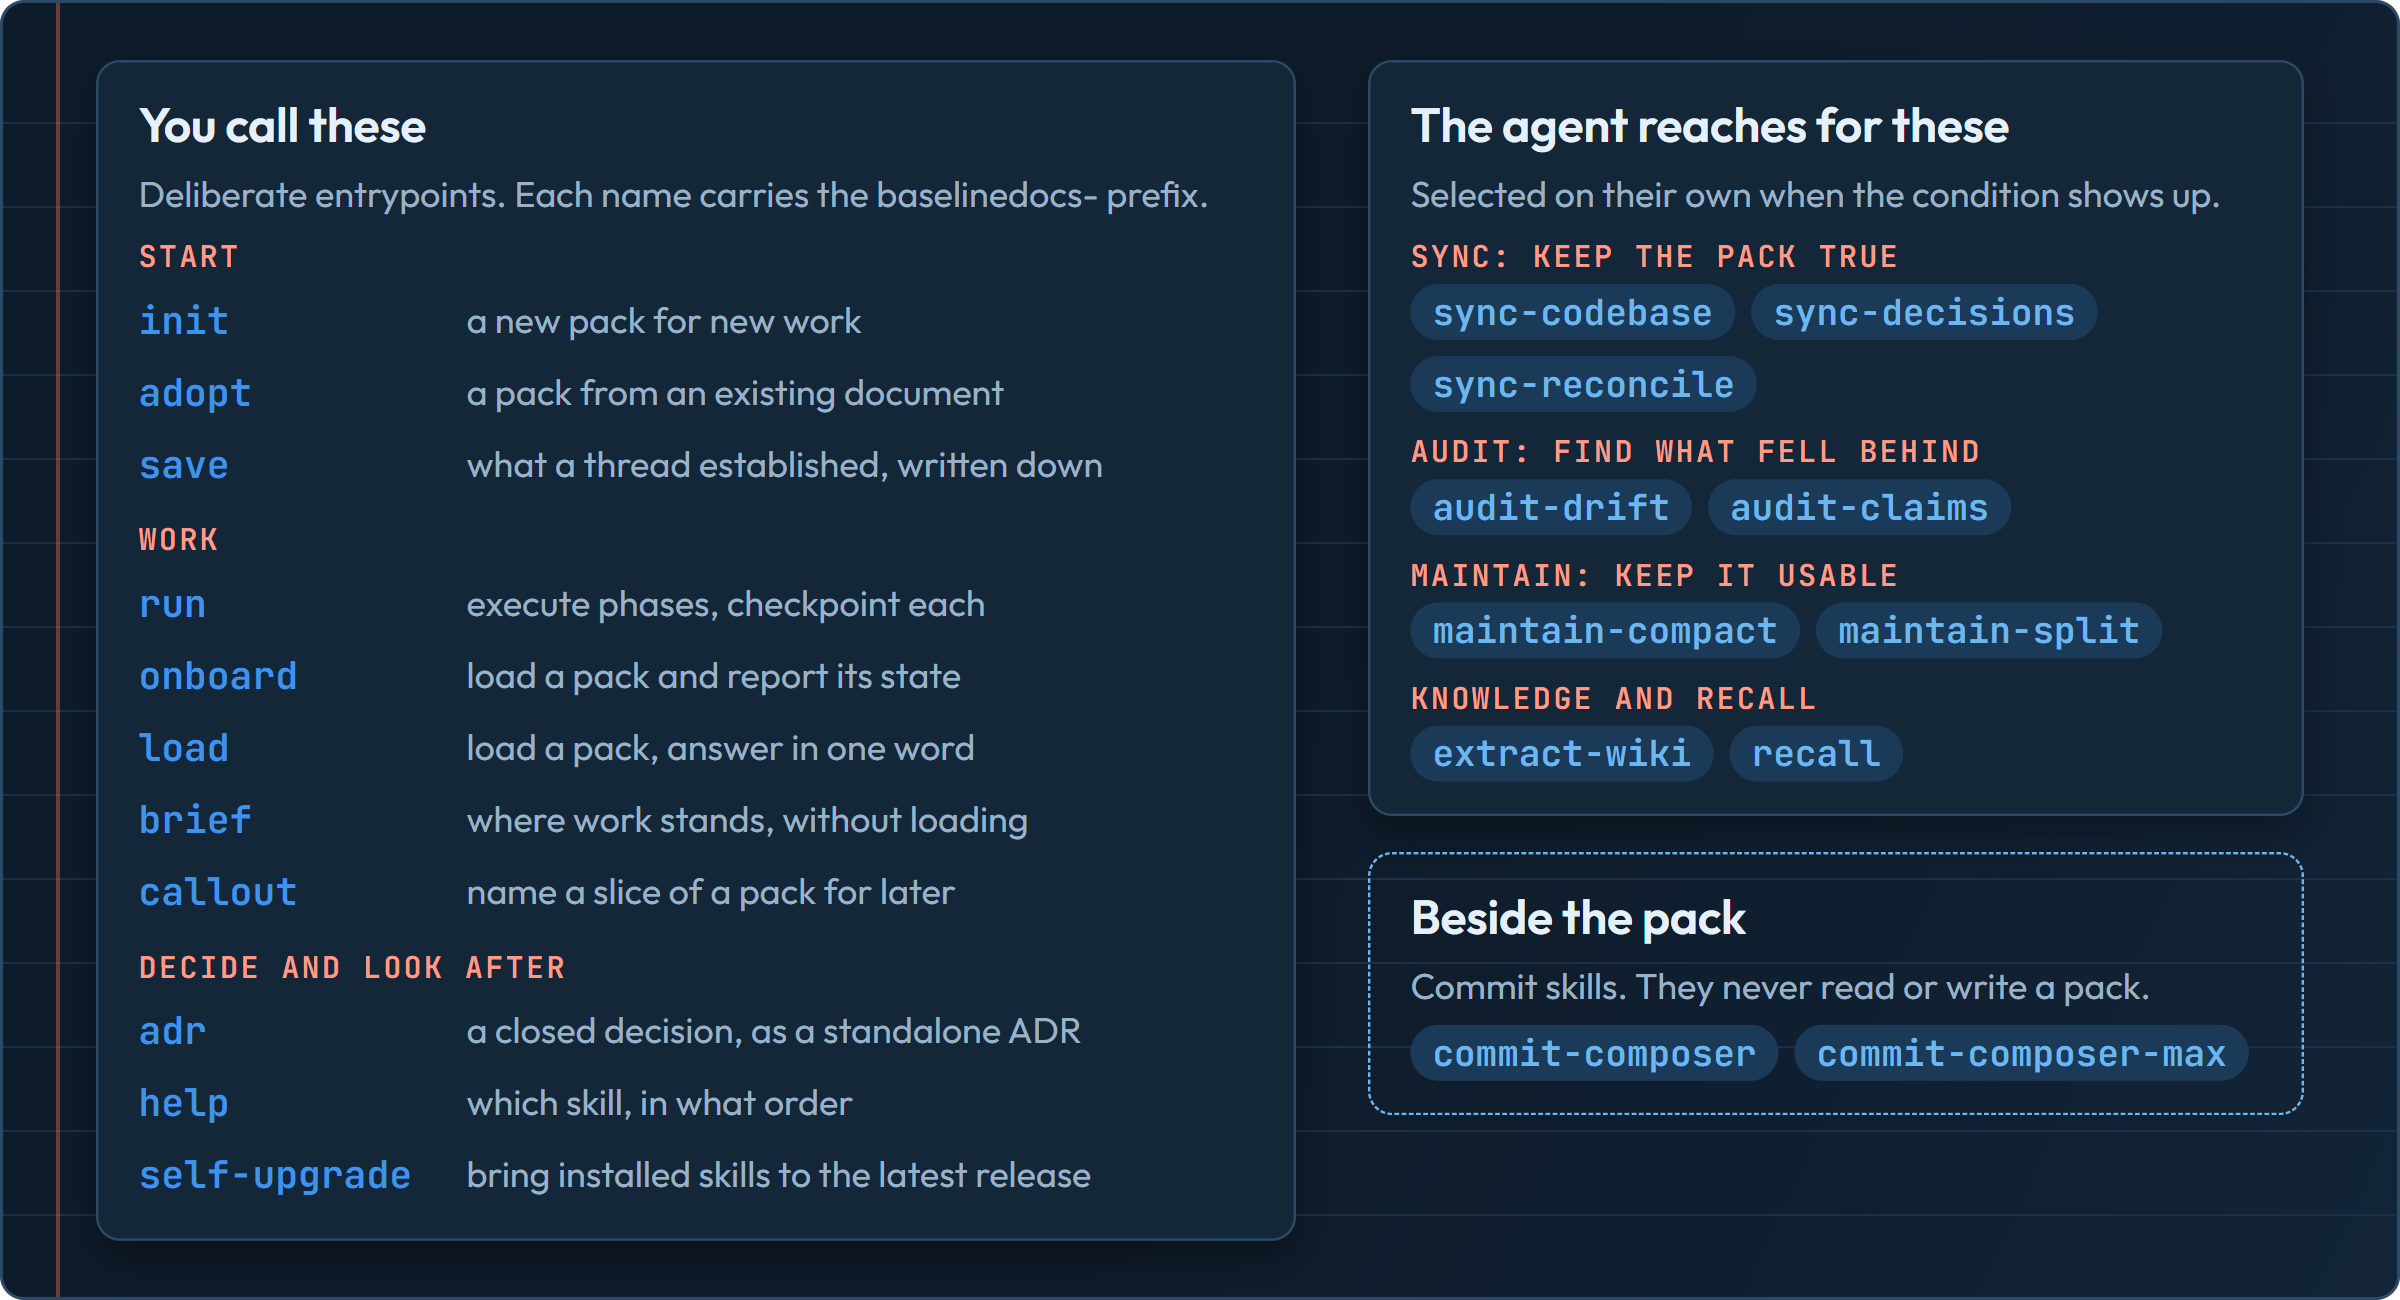
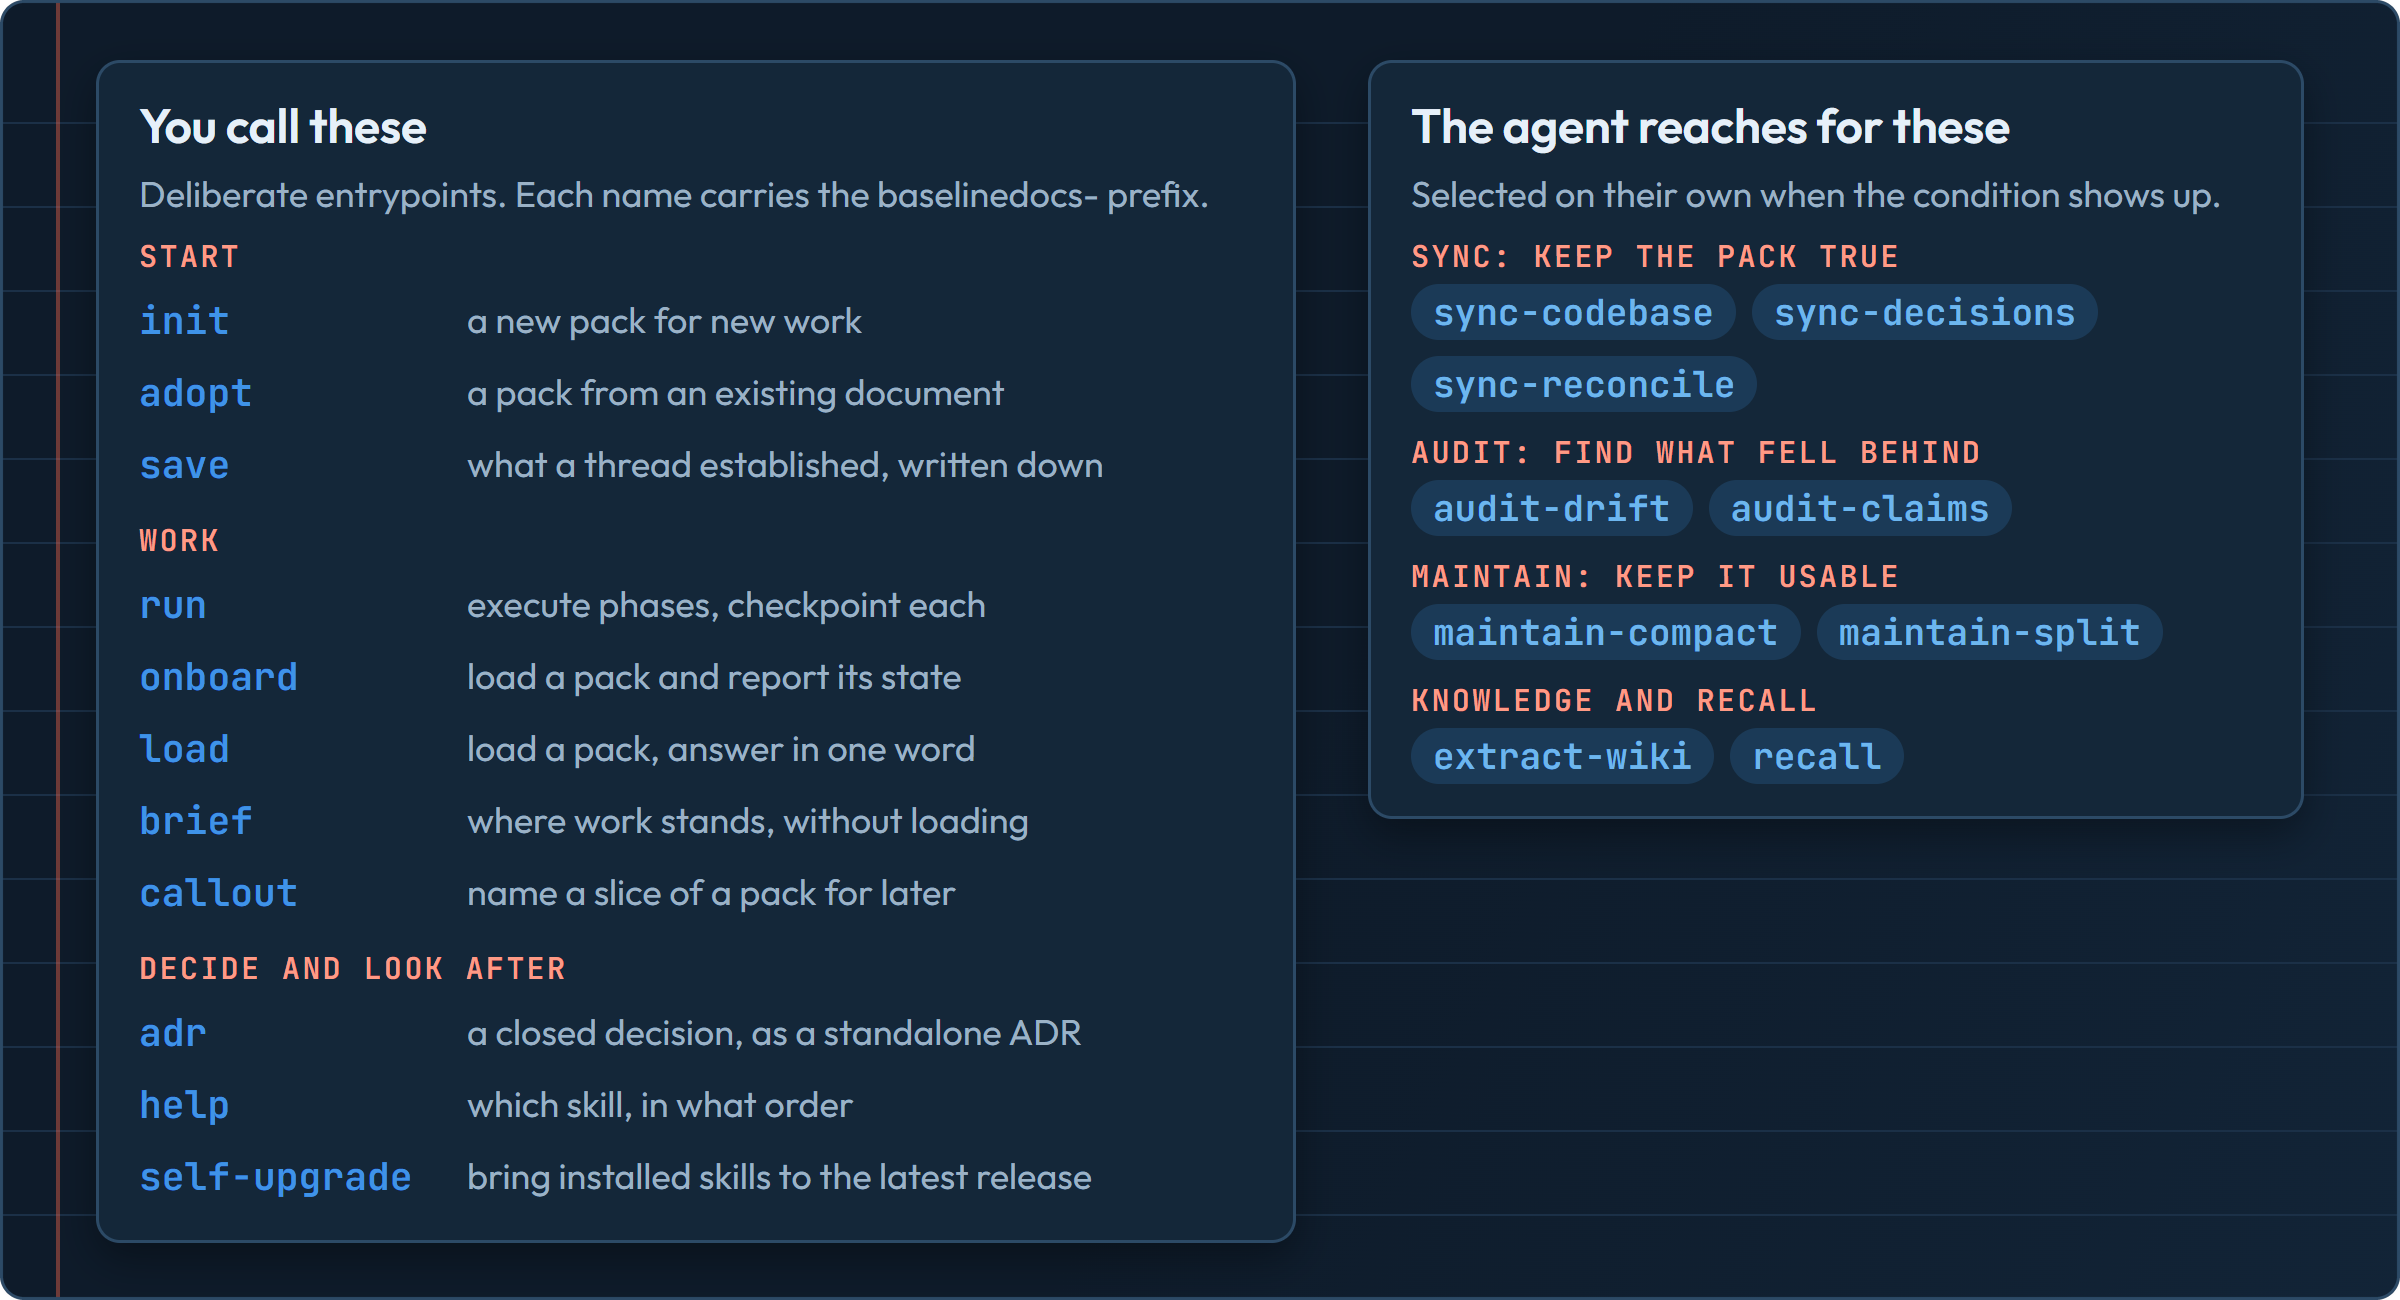
docs(family-design): drop the commit skills from the readme and guides
Why:
- the skills moved to their own repository, so every page that taught or drew them here now describes skills that are not in this repository

Changes:
- AGENTS.md: section on the commit skills removed; the self-upgrade section no longer says a commit-* name would forbid the version it needs
- README.md: the Commit Skills details block removed; the family-map alt text no longer mentions a card beside the pack or an exception to the prefix; the pack tool paragraph no longer says the commit skills ship a kit
- assets/source/family-map.html: the Beside the pack card with the two commit chips removed
- assets/family-map.webp, assets/family-map-dark.webp: re-shot from the updated source at 2400x1300 in both themes
- docs/onboarding/baselinedocs-daily-workflow.html: commit sentence and skill chips dropped from the save step, the end-of-day checklist item removed, the commit entry removed from the which-skill chooser

Risk and verification:
- the right-hand column of the family map now ends higher than the left; both renders were viewed
- the test that requires one family-map chip per baselinedocs skill still passes in the full suite: 420 passed, 2 skipped
- the onboarding page was edited by text substitution and was not opened in a browser

diff --git a/docs/onboarding/baselinedocs-daily-workflow.html b/docs/onboarding/baselinedocs-daily-workflow.html
@@ -351,8 +351,8 @@ html { scroll-behavior: smooth; }
         <div class="when"><b>Kết thúc</b>trước khi đóng máy</div>
         <div class="step-body">
           <h3>Để pack đúng với thực tế</h3>
-          <p>Nếu thread đã xác lập điều gì mà pack chưa có, chạy <strong>save</strong>. Muốn commit phần thay đổi trong repo, dùng một trong hai skill commit. Cả hai nhóm thay đổi theo từng hunk, in ra cách nhóm để bạn duyệt, và chỉ commit sau khi bạn đồng ý.</p>
-          <div class="skills"><span class="skill">baselinedocs-save</span><span class="skill">commit-composer</span><span class="skill">commit-composer-max</span></div>
+          <p>Nếu thread đã xác lập điều gì mà pack chưa có, chạy <strong>save</strong>.</p>
+          <div class="skills"><span class="skill">baselinedocs-save</span></div>
         </div>
       </li>
     </ol>
@@ -556,7 +556,6 @@ flowchart TD
       <li><label><input type="checkbox" id="c5"><span>Ngữ cảnh sắp đầy thì <span class="skill">save</span> trước, rồi mới chọn ở lại hay mở thread mới</span></label></li>
       <li><label><input type="checkbox" id="c6"><span>Sau <code>/compact</code>, chạy <span class="skill">brief</span> xem pack có tụt sau thread không, và <span class="skill">recall</span> nếu cần ghi pack tiếp</span></label></li>
       <li><label><input type="checkbox" id="c7"><span>Trước khi đóng máy, <span class="skill">save</span> điều thread đã xác lập mà pack chưa có</span></label></li>
-      <li><label><input type="checkbox" id="c8"><span>Commit bằng <span class="skill">commit-composer</span> hoặc <span class="skill">commit-composer-max</span>, duyệt cách nhóm trước khi đồng ý</span></label></li>
     </ul>
   </section>
 
@@ -598,8 +597,6 @@ if (window.mermaid) mermaid.initialize({ startOnLoad: true, theme: matchMedia("(
       steps: ["<strong>callout</strong> mở một nhóm tên gọi tạm trong <code>introduction</code>, trỏ tới những mục đã có.", "Nó không tạo nội dung mới, và yêu cầu bạn nêu điều kiện kết thúc nhóm."] },
     { q: "Một quy trình dùng lại được đang nằm trong pack", skill: "baselinedocs-extract-wiki",
       steps: ["<strong>extract-wiki</strong> rút quy trình thành bài wiki ở <code>docs/wiki/</code> và liên kết ngược từ pack."] },
-    { q: "Muốn commit các thay đổi", skill: "commit-composer  hoặc  commit-composer-max",
-      steps: ["<strong>commit-composer</strong>: tiêu đề khoảng 50 ký tự, thân tùy chọn tối đa 5 gạch đầu dòng.", "<strong>commit-composer-max</strong>: thân đầy đủ gồm lý do, từng file và symbol đã đổi, rủi ro, điều đã kiểm chứng.", "Cả hai quét bí mật trên diff trước khi commit, in cách nhóm để bạn duyệt, và không bao giờ push."] },
     { q: "Không biết nên dùng skill nào", skill: "baselinedocs-help",
       steps: ["<strong>help</strong> giải thích từng skill và thứ tự dùng. Nó không đọc pack và không ghi gì."] }
   ];

diff --git a/assets/source/family-map.html b/assets/source/family-map.html
@@ -59,11 +59,6 @@
       <div class="grp">Knowledge and recall</div>
       <div class="chips"><span class="chip" data-skill="baselinedocs-extract-wiki">extract-wiki</span><span class="chip" data-skill="baselinedocs-recall">recall</span></div>
     </div>
-    <div class="card ghost panel">
-      <h4>Beside the pack</h4>
-      <div class="sub">Commit skills. They never read or write a pack.</div>
-      <div class="chips"><span class="chip">commit-composer</span><span class="chip">commit-composer-max</span></div>
-    </div>
   </div>
 </div>
 </div>

diff --git a/README.md b/README.md
@@ -72,7 +72,7 @@ The full contract, including the frontmatter fields and the identifier rules, is
 
 ## Skills
 
-<picture><source media="(prefers-color-scheme: dark)" srcset="assets/family-map-dark.webp"><img src="assets/family-map.webp" alt="Map of the skill family. Skills you call: init, adopt and save to start; run, onboard, load, brief and callout to work; adr, help and self-upgrade to decide and look after the install. Skills the agent reaches for on its own: sync-codebase, sync-decisions and sync-reconcile keep the pack true; audit-drift and audit-claims find what fell behind; maintain-compact and maintain-split keep a pack usable; extract-wiki and recall cover knowledge and recall. Beside the pack: commit-composer and commit-composer-max, which never read or write a pack. Every name carries the baselinedocs- prefix except the two commit skills." width="100%"></picture>
+<picture><source media="(prefers-color-scheme: dark)" srcset="assets/family-map-dark.webp"><img src="assets/family-map.webp" alt="Map of the skill family. Skills you call: init, adopt and save to start; run, onboard, load, brief and callout to work; adr, help and self-upgrade to decide and look after the install. Skills the agent reaches for on its own: sync-codebase, sync-decisions and sync-reconcile keep the pack true; audit-drift and audit-claims find what fell behind; maintain-compact and maintain-split keep a pack usable; extract-wiki and recall cover knowledge and recall. Every name carries the baselinedocs- prefix." width="100%"></picture>
 
 ### User Entrypoints
 
@@ -109,20 +109,6 @@ All of them set `policy.allow_implicit_invocation: false` for Codex, so they sta
 | Recall    | `recall`                                                                           |
 
 All skill IDs use lowercase kebab-case, for example `baselinedocs-sync-codebase`. These are agent-selected helpers: their UI names start with `Baseline Docs Internal:` and implicit invocation stays enabled. The exception is `recall`, which a user also calls by hand, so its UI name is `Baseline Docs: Recall`. After a context compaction it re-reads the pack contract and the report style, so the next pack write follows the rules. Some hosts do not enforce the Codex-specific policy, so each skill description states the classification too.
-
-</details>
-
-<details>
-<summary><b>Commit Skills</b></summary>
-
-Two user entrypoints that extend the family but do not read or write a pack. Both split the uncommitted changes at hunk level, group them by project, action, and target, show the grouping, and commit only after you approve it. The title is `type(project): subject`, and the project is usually the pack's name; the message never carries a pack identifier, phase number, or pack filename.
-
-| User intent                                          | Skill                 | Outcome                                                                                              |
-| ---------------------------------------------------- | --------------------- | ---------------------------------------------------------------------------------------------------- |
-| Commit with short, meaningful messages               | `commit-composer`     | Title aimed at 50 characters, an optional body of up to 5 bullets                                    |
-| Commit with messages that stand in for reading the code | `commit-composer-max` | A body with the reason, every changed file and symbol, the risks, and what was verified, for task audit |
-
-Each runs a secret scan on the staged diff and a format check on the message before every commit, never pushes, and prints the ids that undo the index and the commits. `npx skills add` installs them with the rest of this repository; add `--skill commit-composer` to install one alone.
 
 </details>
 
@@ -217,7 +203,7 @@ Each skill follows the Agent Skills folder shape:
   scripts/        # only when the skill runs a bundled script
 ```
 
-`scripts/packtool.sh` is a read-only structure check for packs (`outline`, `find`, `next-id`, `close-plan`, `check`). Writer and audit skills run it after every write and before every report, and each one ships its own copy. The commit skills ship `scripts/commitkit.sh` the same way, and `baselinedocs-self-upgrade` ships `scripts/upgradekit.sh`, a read-only scan that compares installed versions with a release.
+`scripts/packtool.sh` is a read-only structure check for packs (`outline`, `find`, `next-id`, `close-plan`, `check`). Writer and audit skills run it after every write and before every report, and each one ships its own copy. `baselinedocs-self-upgrade` ships `scripts/upgradekit.sh`, a read-only scan that compares installed versions with a release.
 
 Every `SKILL.md` carries one top-level `version:` shared by the whole family. `scripts/release.py` stamps it and tags the stamped commit, so the value changes only at release.
 

diff --git a/AGENTS.md b/AGENTS.md
@@ -68,19 +68,9 @@ It is a second asset rather than a section of the contract on purpose. The contr
 - It never writes, never touches the network, and runs git read-only. Keep it that way: an installed skill executes it inside other teams' repositories.
 - `tests/test_packtool.py` holds one case per rule. A new rule needs a case.
 
-## The commit skills
-
-`commit-composer` and `commit-composer-max` extend the family but are not baselinedocs skills: they ship no pack contract, no report style, and no `packtool.sh`. They ship two assets of their own, byte-identical copies of `contract/commit-convention.md` (message format, project naming, the rule keeping pack identifiers out of a message, grouping, and the whole procedure) and `contract/commitkit.sh` (`hunks`, `patch`, `scan`, `lint`). Each `SKILL.md` holds only what differs, the message shape, plus its two gate sentences.
-
-- Edit the canonical file, then copy it into both skills. `tests/test_commit_skills.py` pins the copies, the folder shape, and the gate sentences.
-- Their folders are named `commit-*`, so `tests/helpers.py` `skill_dirs()`, the family metadata, version, and reference tests, and `scripts/stamp_version.py` never see them. `test_commit_skills.py` is their whole test surface, and a `version:` in their frontmatter fails it because nothing would ever update it.
-- `commitkit.sh` obeys the same rules as `packtool.sh`: POSIX sh and awk only, no gawk extension, no regex interval, and it computes without writing. Staging and committing are the agent's git commands, never the tool's, because an installed skill runs it inside other teams' repositories. `tests/test_commitkit.py` holds one case per rule and builds its repositories in a temporary directory.
-- A unit id is a hash of the file and the hunk body, not a position, because line numbers move after every commit. `patch` recomputes each selected hunk's new-side offset when an earlier hunk of the file is left out; `git apply --cached --unidiff-zero` positions a hunk by that offset and rejects a stale one.
-- Test fixtures that look like a secret are assembled at run time. A scanner reading this repository would otherwise flag the test file.
-
 ## The self-upgrade skill
 
-`baselinedocs-self-upgrade` upgrades the installed skills, not a pack. It is a family skill (`baselinedocs-*`, shared `version:`, stamped by the release) so it can compare and upgrade itself; a `commit-*` name would forbid the `version:` it needs.
+`baselinedocs-self-upgrade` upgrades the installed skills, not a pack. It is a family skill (`baselinedocs-*`, shared `version:`, stamped by the release) so it can compare and upgrade itself.
 
 - It ships `scripts/upgradekit.sh` (`inventory`, `compare`), the one script a family skill owns outright. There is no canonical copy in `contract/`: a single consumer makes a byte-identical copy a duplication to keep in sync. `tests/test_conventions.py` names it in `OWN_SCRIPTS`, and `tests/test_upgradekit.py` is its test surface and builds a fake home in a temporary directory.
 - `upgradekit.sh` obeys the `packtool.sh` rules: POSIX sh and awk only, never writes, never touches the network, does not run git. The agent runs `git ls-remote`, `npx skills update`, the clone, and every write, so the script stays safe to run inside any machine.
